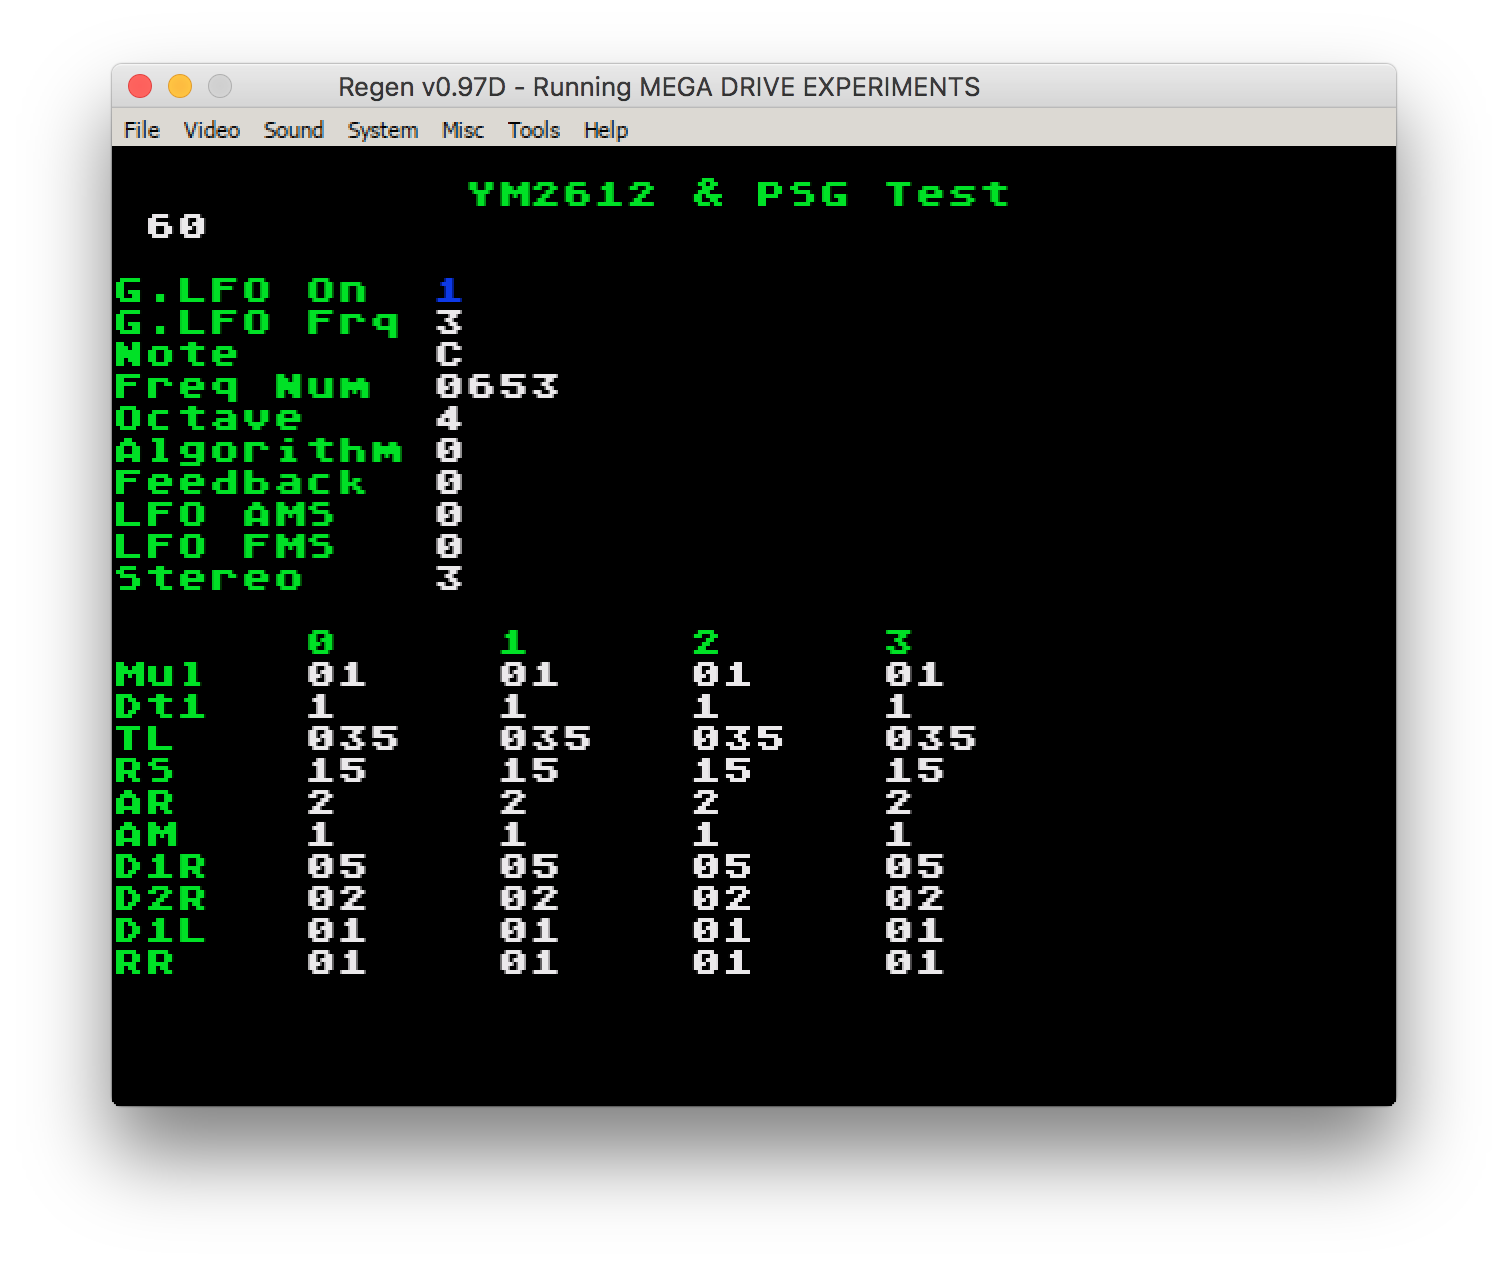
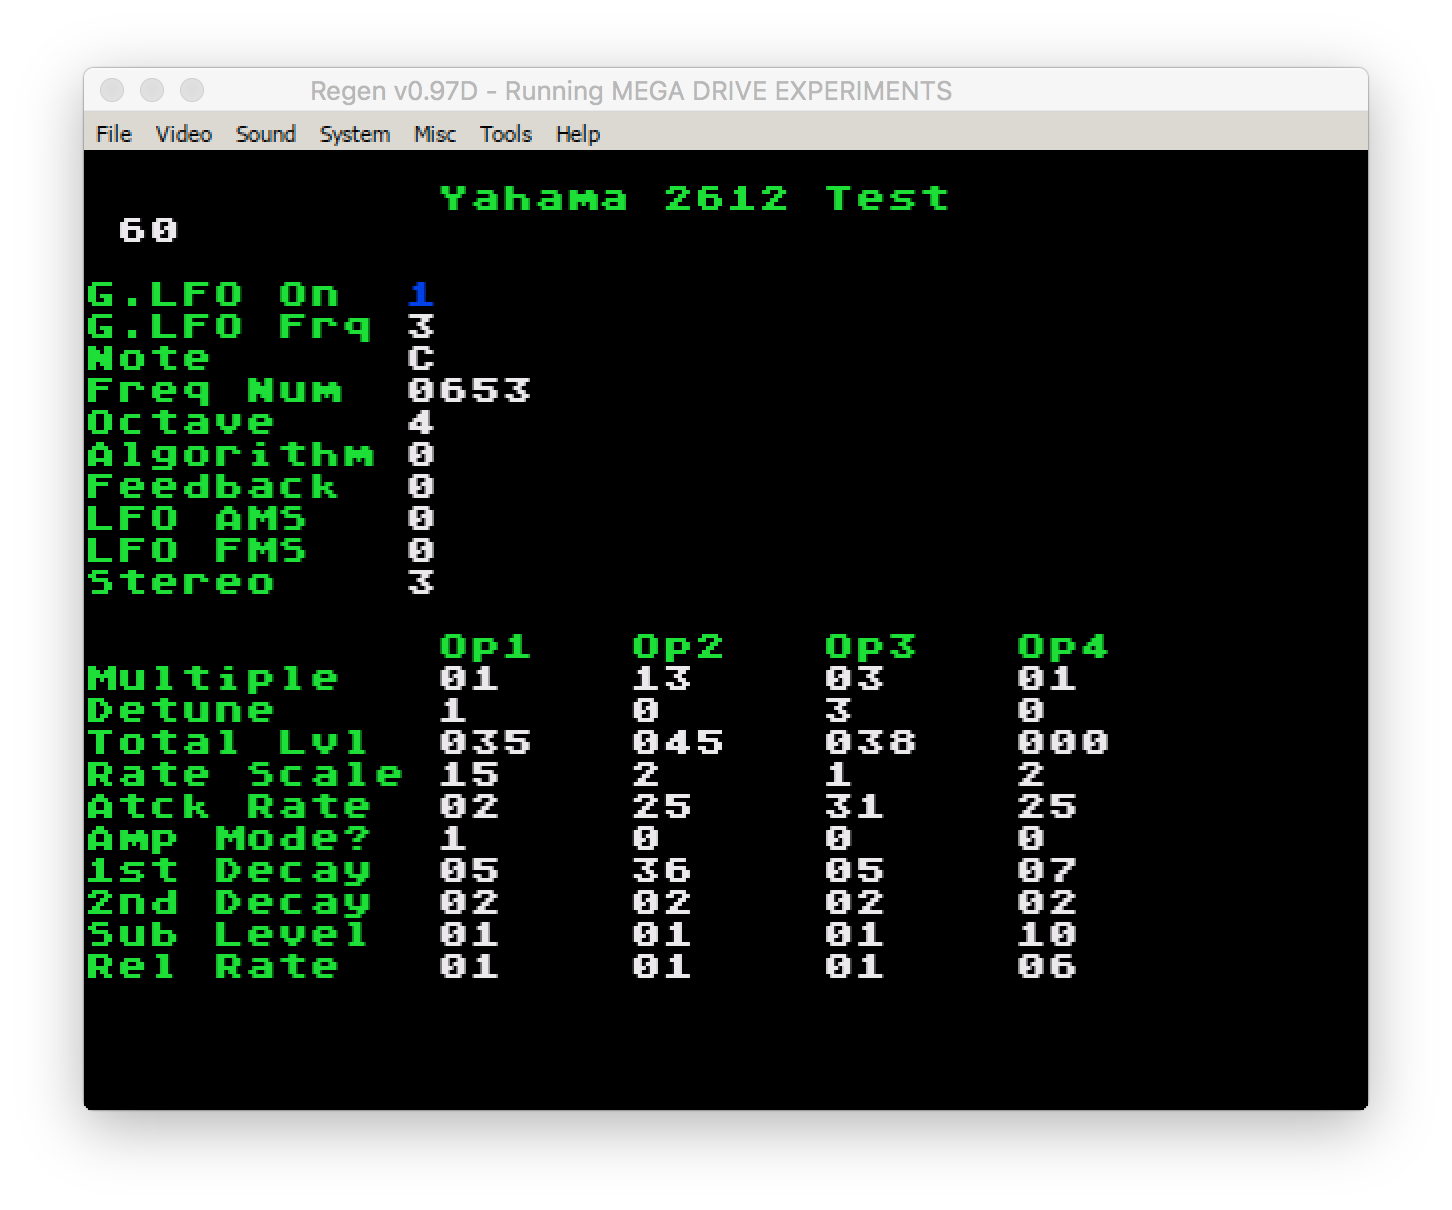
Remove PSG from title; update WIP image

diff --git a/src/main.c b/src/main.c
@@ -5,7 +5,7 @@
 int main(void)
 {
     VDP_setTextPalette(PAL2);
-    VDP_drawText("YM2612 & PSG Test", 11, 0);
+    VDP_drawText("Yahama 2612 Test", 11, 0);
     synth_init();
     ui_draw();
     while (TRUE)
